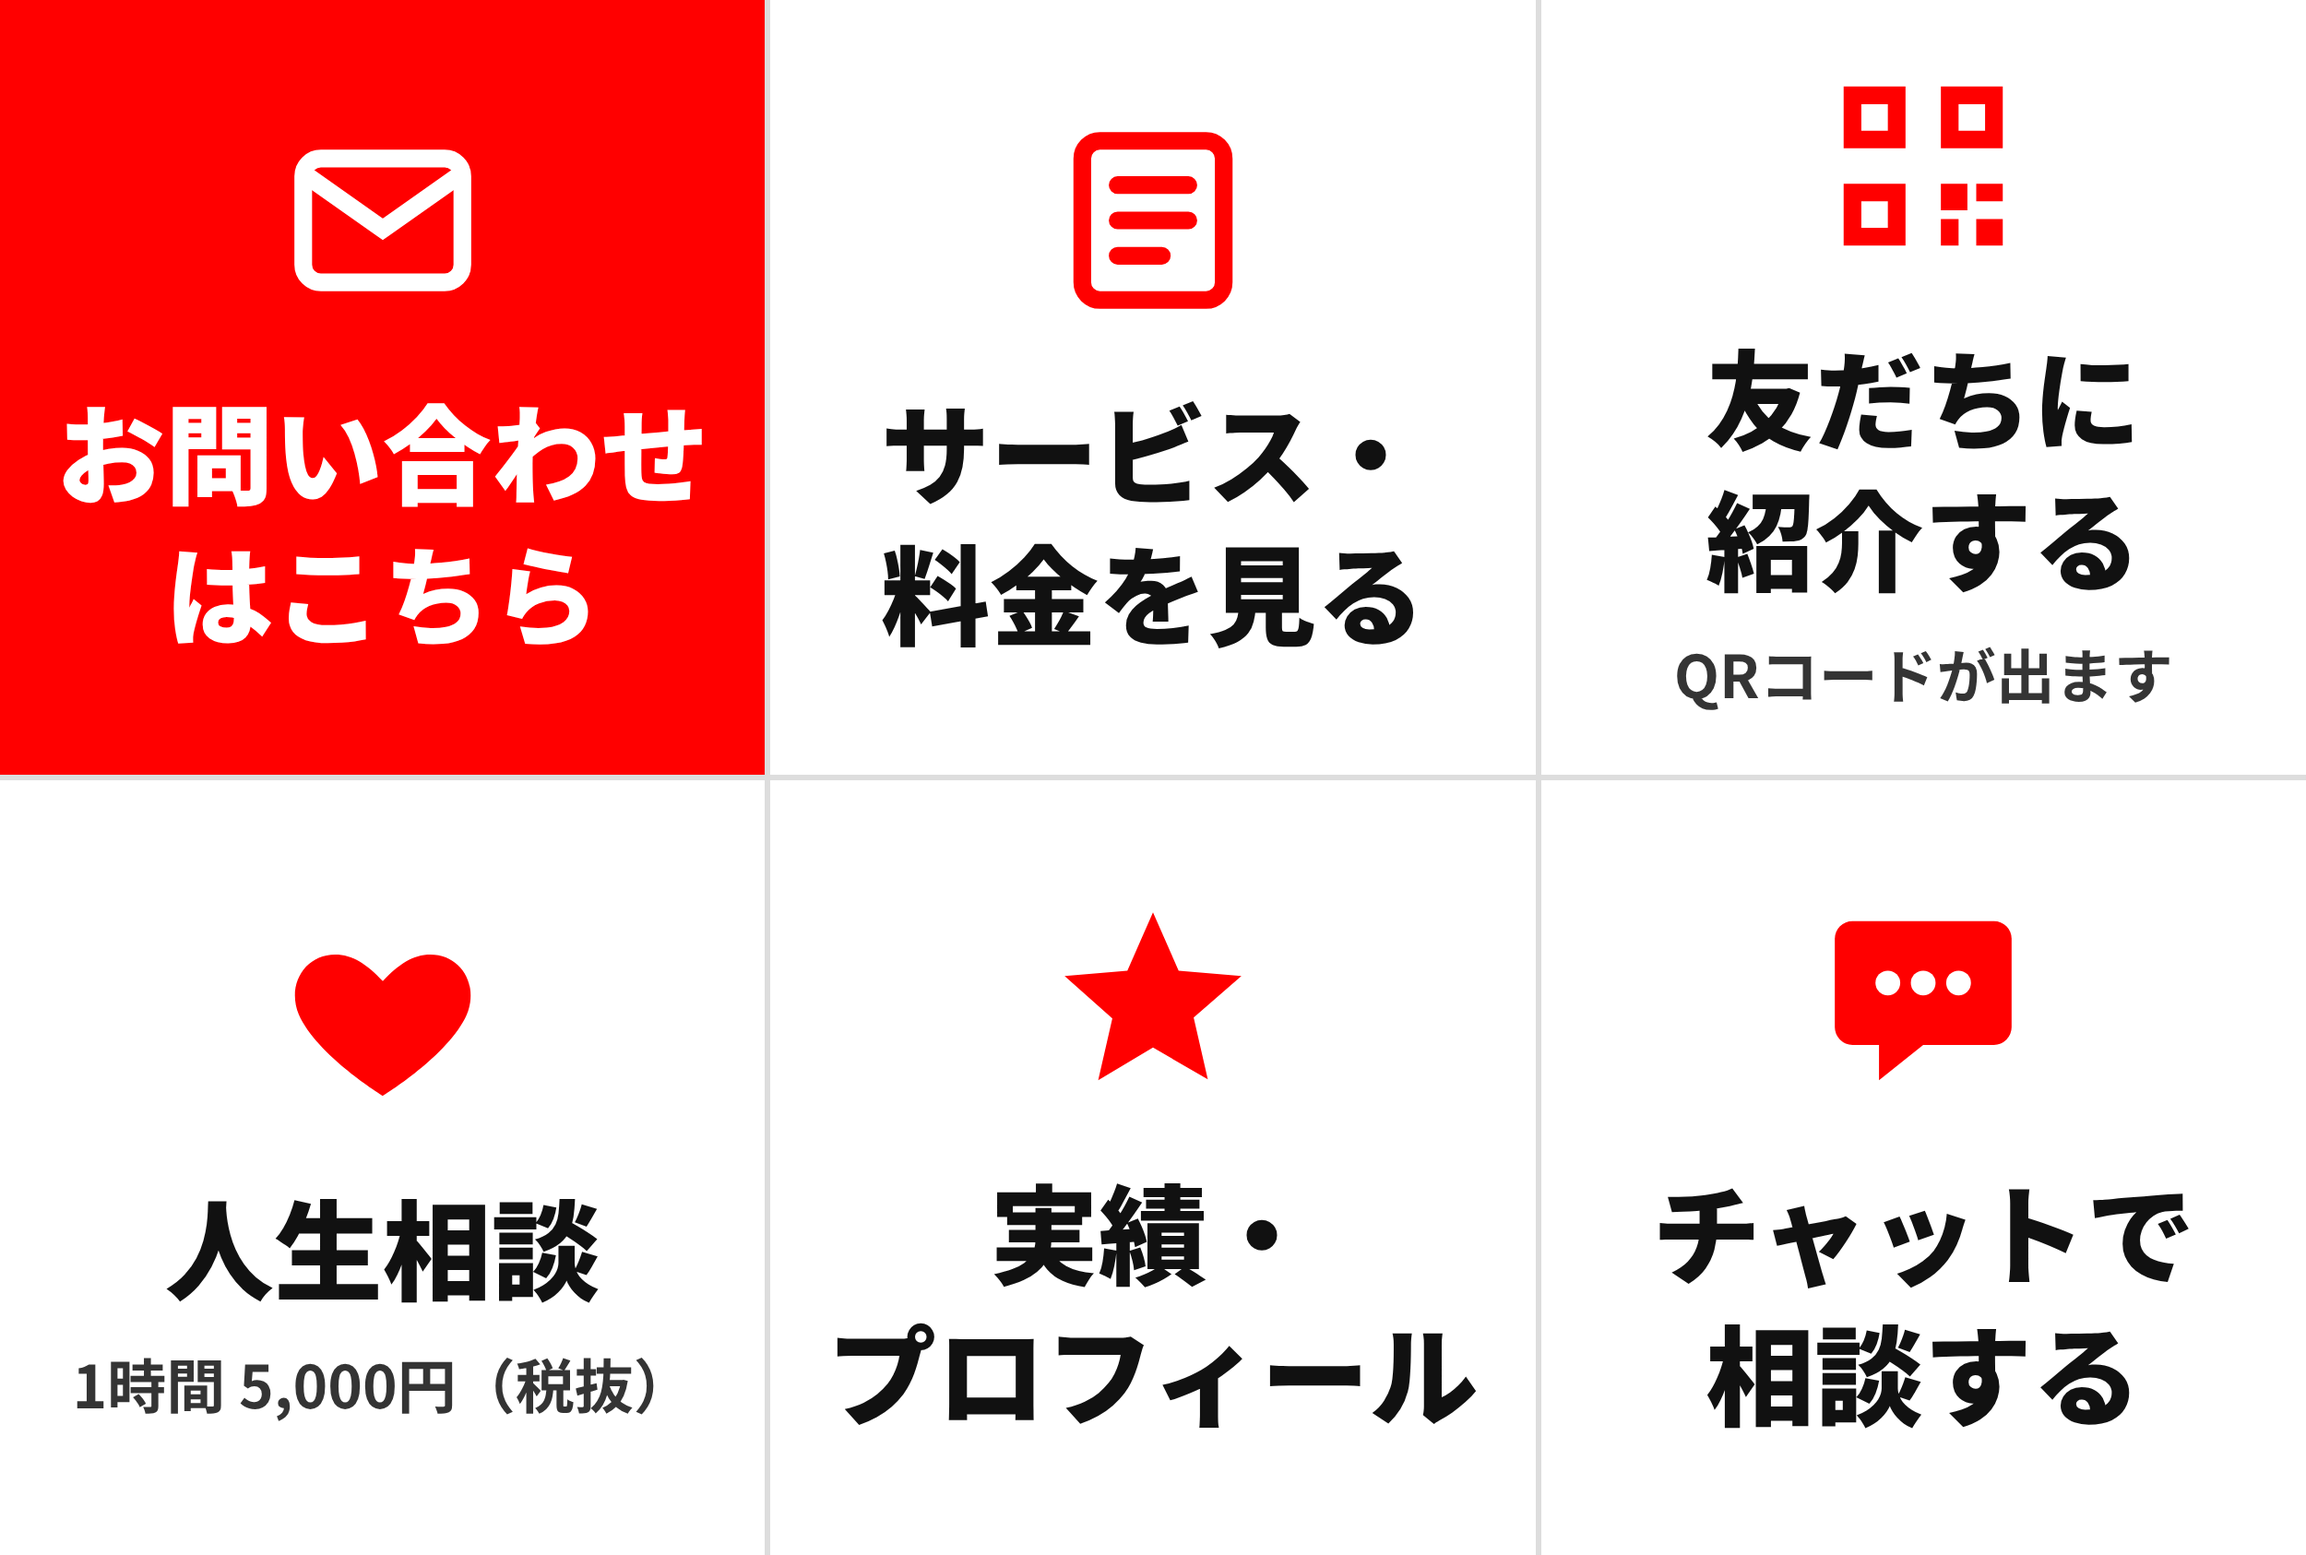
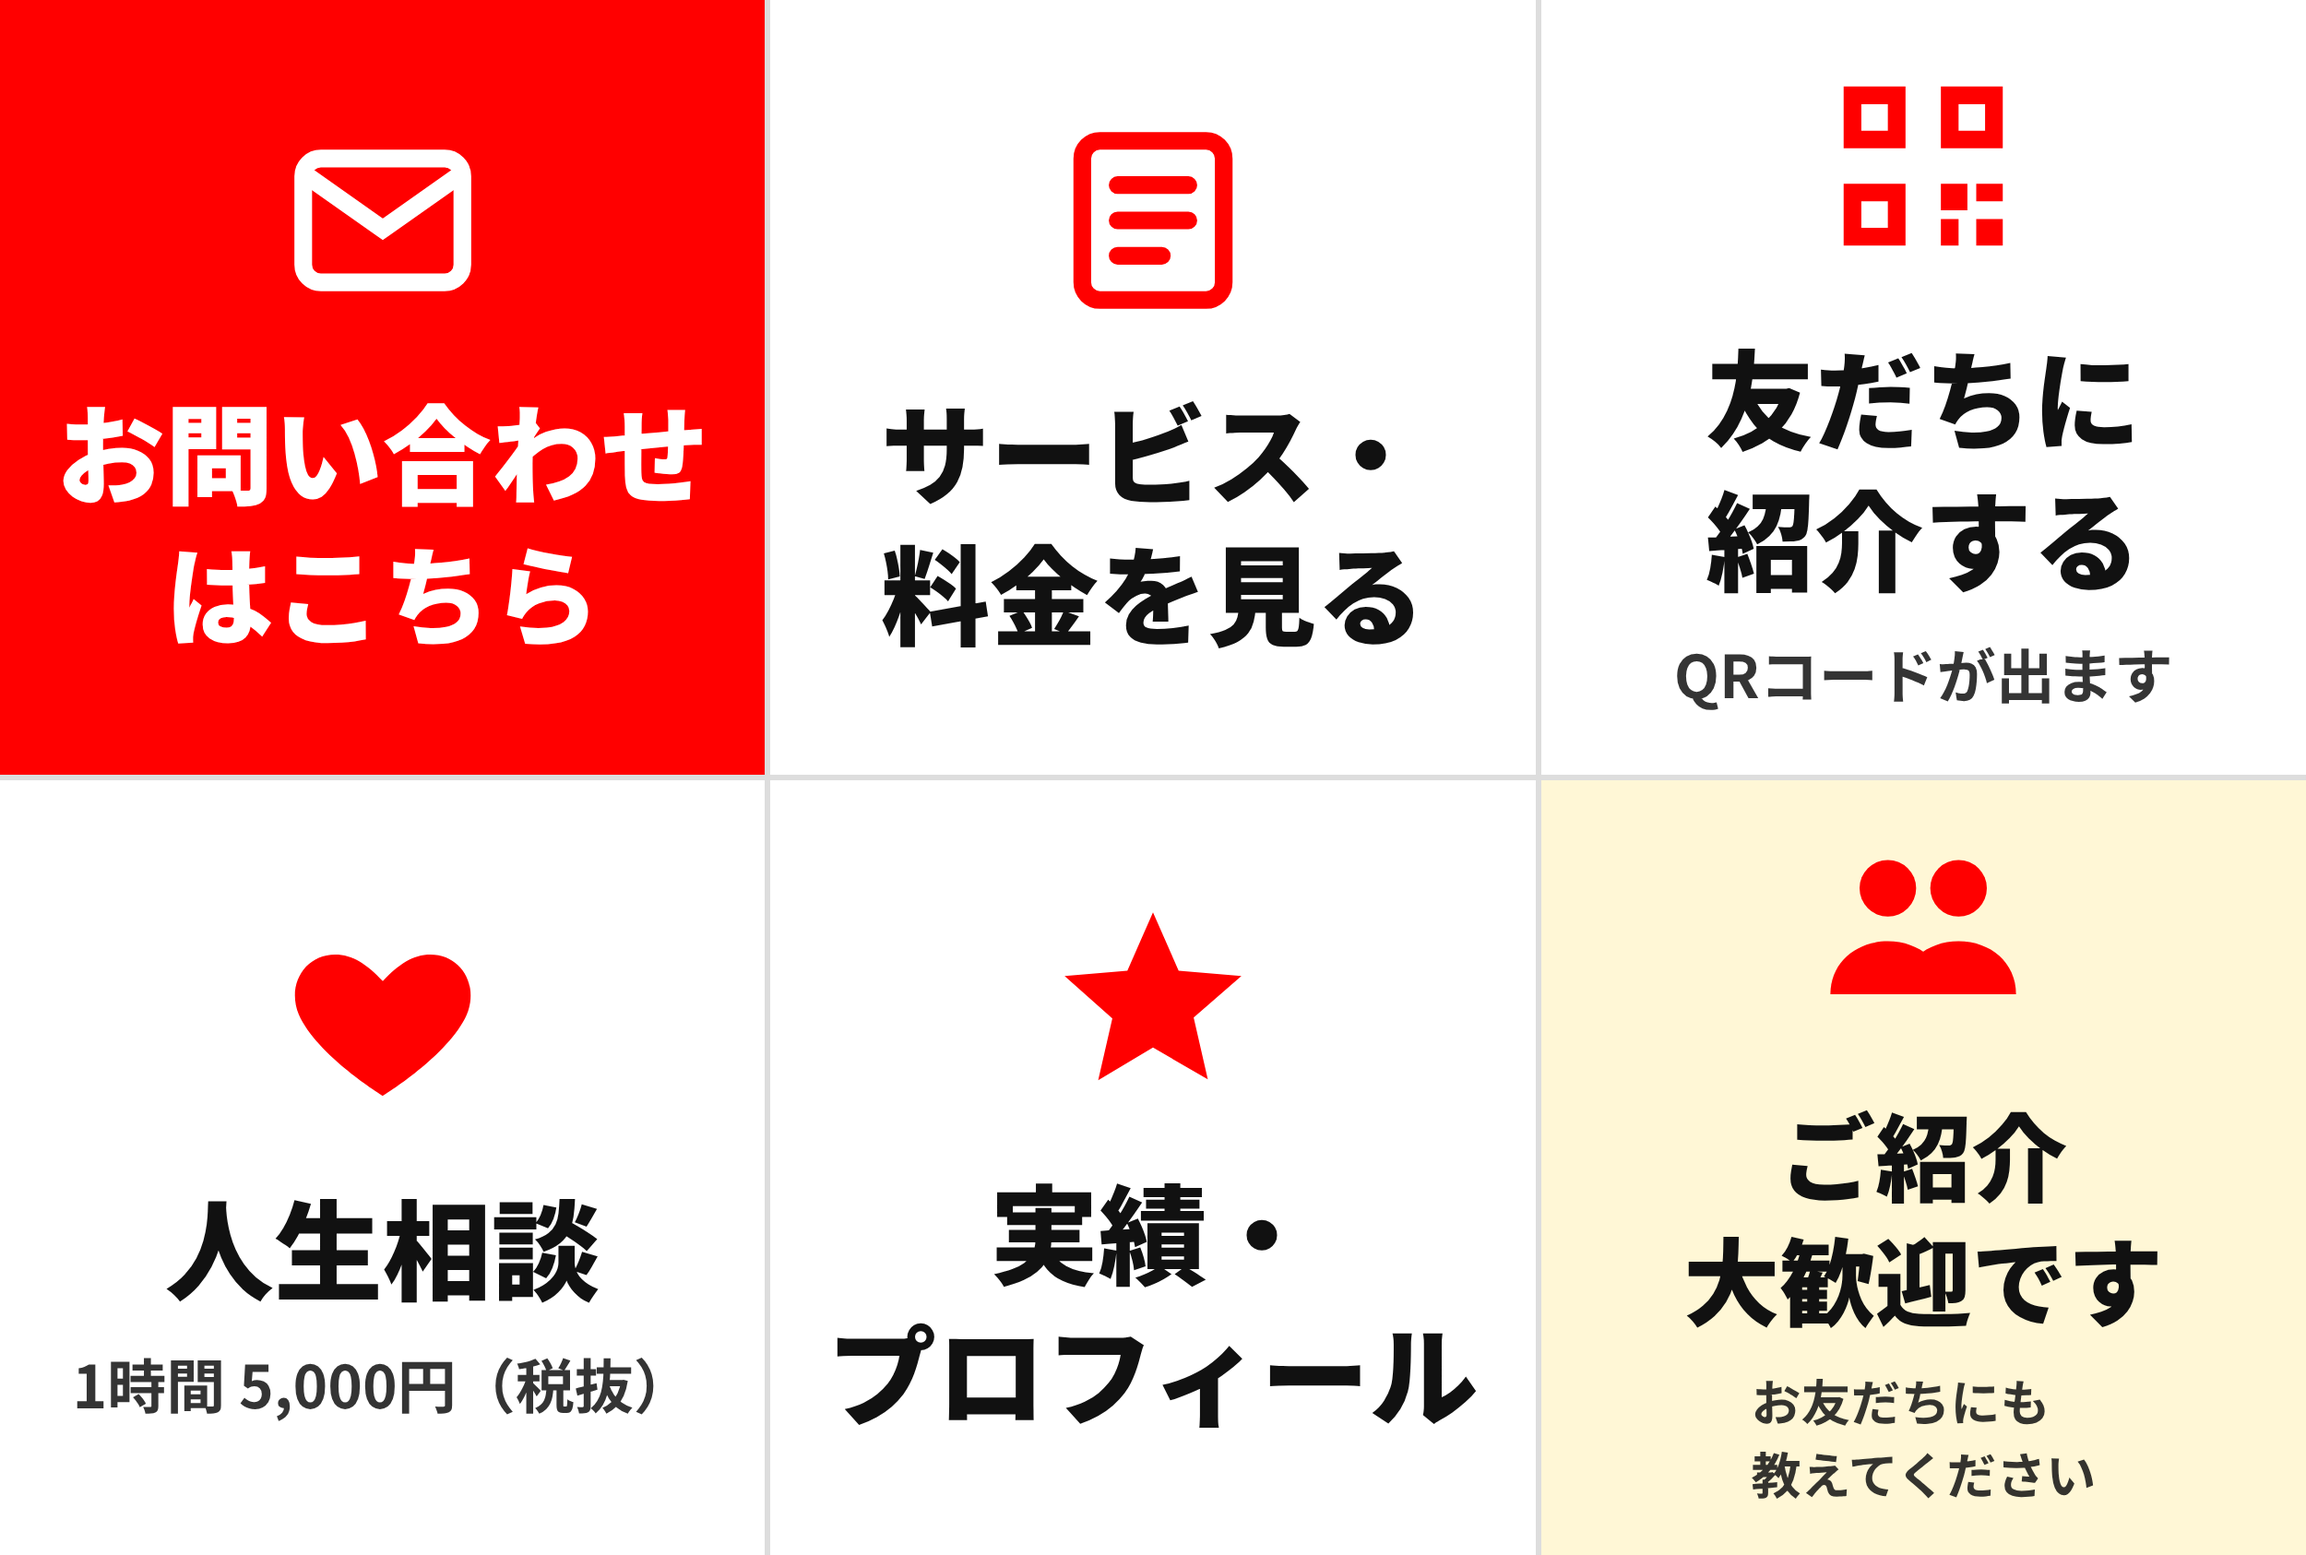
LINEメニューv2：チャット相談ボタンを「ご紹介大歓迎」に変更、API設定用の定義を追加
Claude-Session: https://claude.ai/code/session_013VCsDr4dsXas8bddMVCS79

Changed region(s): [[0.6552, 0.4935, 1.0, 1.0]]

diff --git a/.company/ceo/受付台帳.md b/.company/ceo/受付台帳.md
@@ -4,10 +4,10 @@
 
 | No. | 受付日 | 指示（要約） | 担当部門 | 優先度 | 期限 | 状態 |
 |---|---|---|---|---|---|---|
-| 007 | 2026-10-08 | LPをセミナー受講者向けから一般向けに変更（受講者価格・10/10期限をなくし、通常料金に） | マーケティング（協力：管理） | A | 2026-10-10 | 案をブランチに用意／公開OK待ち |
+| 007 | 2026-10-08 | LPをセミナー受講者向けから一般向けに変更（受講者価格・10/10期限をなくし、通常料金に） | マーケティング（協力：管理） | A | 2026-10-10 | 完了（10/8 公開・PR #53） |
 | 006 | 2026-10-08 | 相談の希望日時を3つ選んでもらい、カレンダーに【仮】で自動で入れる（空き確認つき）。オーナーが1つ選んで連絡 | 営業（協力：管理） | B | 2026-10-15 | スクリプト作成済み（`seminar-20261005/form/add_calendar.gs`）／オーナーの貼り付け待ち |
 | 005 | 2026-10-08 | LINEで週1〜2回、自己開示・役立つ情報を発信。Claudeと一緒に作り、オーナーOK後に自動で配信する仕組みにする | 顧客関係（協力：リサーチ・開発） | B | 2026-10-15 | 受付（オーナー確認待ち） |
 | 004 | 2026-10-08 | LINEで受ける相談サービス（SNS運用メイン／初心者〜上級者、売上アップ施策、人生相談）と月額サポートのメニュー・料金を決める | 経営企画（協力：サービス・営業） | B | 2026-10-14 | 料金決定（10/8）／LP・特商法・フォームの書き換え案をブランチに用意、公開OK待ち |
-| 003 | 2026-10-08 | LINE公式アカウントの装飾（リッチメニュー・あいさつ）を作り直し、問い合わせ先＝LPのGoogleフォームへの導線を置く | 顧客関係（協力：マーケティング） | B | 2026-10-15 | リッチメニュー画像・設定シート・紹介用QRページ作成済み／オーナーの管理画面設定待ち |
+| 003 | 2026-10-08 | LINE公式アカウントの装飾（リッチメニュー・あいさつ）を作り直し、問い合わせ先＝LPのGoogleフォームへの導線を置く | 顧客関係（協力：マーケティング） | B | 2026-10-15 | リッチメニュー画像（v2）・設定定義・紹介用QRページ作成済み。LINE APIの鍵が api.line.me で使えず設定保留（環境設定の変更待ち） |
 | 002 | 2026-10-02 | 体制を「社長→CEO→部門」の .company 構成にし、チャンネル運営は別リポジトリの事業部にする | CEO | A | 2026-10-02 | 完了（youtube-channel-company に構築済み） |
 | 001 | 2026-10-02 | YouTubeセミナー事業を会社のように部門に分けて運営する仕組みをつくる | 経営企画部 | A | 2026-10-02 | 完了 |

diff --git a/seminar-20261005/line/LINE設定シート.md b/seminar-20261005/line/LINE設定シート.md
@@ -52,10 +52,11 @@ YouTube・SNS運用のYkkn（ワイケーケーエヌ）山内です。
 | 右上 C | 友だちに紹介する（QRコードが出ます） | リンク | `https://ykkn-youtube.com/line.html` |
 | 左下 D | 人生相談 | テキスト | `人生相談したい` |
 | 中下 E | 実績・プロフィール | リンク | `https://ykkn-youtube.com/#results` |
-| 右下 F | チャットで相談する | テキスト | `相談したい` |
+| 右下 F | ご紹介大歓迎です（お友だちにも教えてください） | リンク | `https://ykkn-youtube.com/line.html`（C と同じQR画面） |
 
 ※ C は、押すとQRコードの画面が開きます。その画面をお知り合いに見せて読み取ってもらうか、「LINEのトークで友だちに送る」で紹介できます。
-※ C・A・B・E のリンク先は、LPの更新（`main` への反映）が終わってから使えるようになります。
+※ ご相談への返事は、Ykkn 山内がトークで直接行う（「チャットで相談する」ボタンは置かない）。
+※ APIで設定する場合の定義：`richmenu_v2.json`
 
 ---
 
